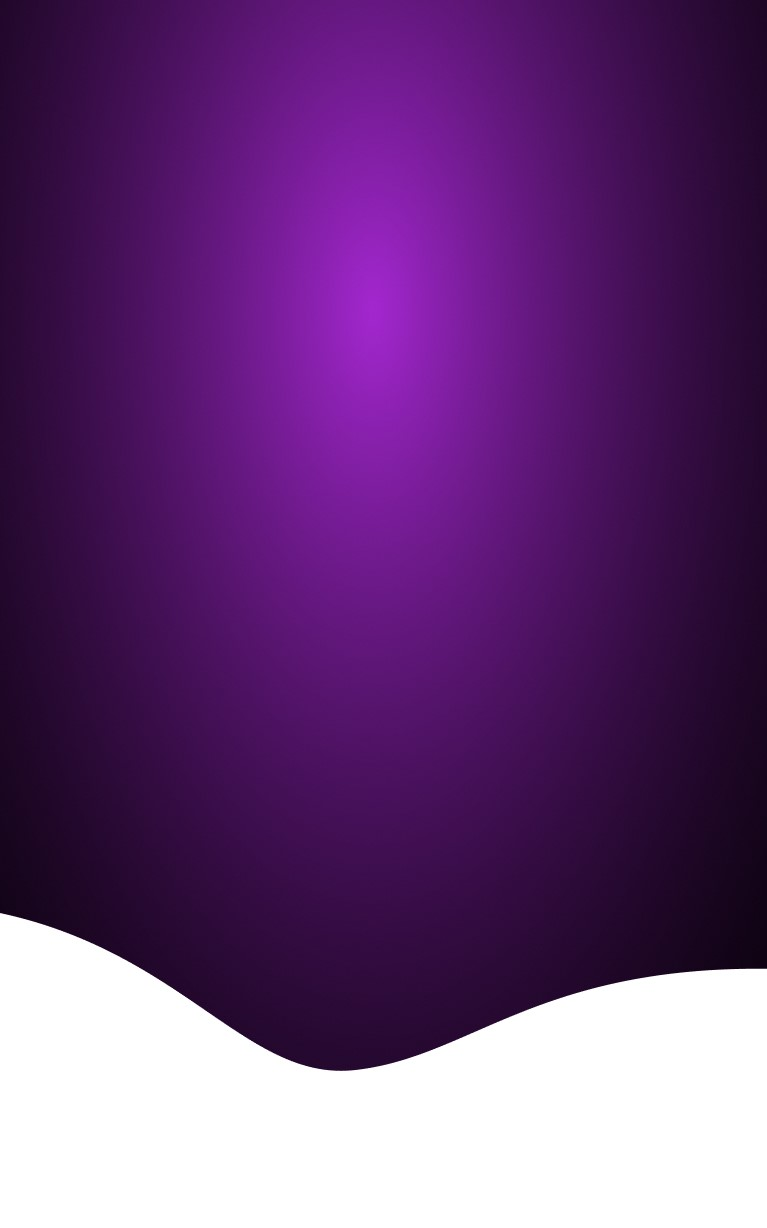
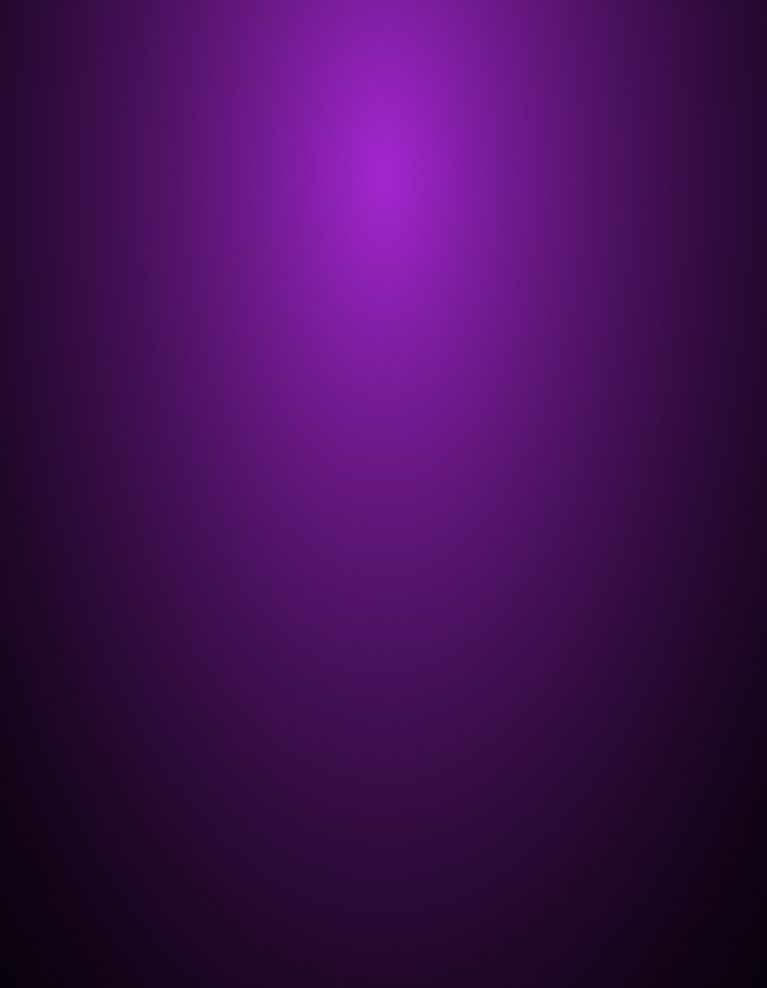
version 3 remade

Changed region(s): [[0.0, 0.7287, 1.0, 1.0], [0.3898, 0.0, 0.6597, 0.1822]]

diff --git a/lpv3/styles/style.css b/lpv3/styles/style.css
@@ -297,15 +297,6 @@ body {
   margin-bottom: -6px;
 }
 
-.header__buttons {
-  position: absolute;
-  top: -38px;
-  right: 10px;
-  display: flex;
-  justify-content: center;
-  column-gap: 36px;
-}
-
 .header__button_register {
   display: flex;
   justify-content: center;
@@ -348,6 +339,56 @@ body {
 }
 
 .header__button_freeSpins:hover {
+  transform: scale(1.06);
+}
+
+.header__buttons {
+  position: absolute;
+  bottom: -865px;
+  right: 370px;
+  display: flex;
+  justify-content: center;
+  column-gap: 36px;
+  z-index: 1;
+}
+
+.header__logIn {
+  display: flex;
+  align-items: center;
+  justify-content: center;
+  width: 124px;
+  height: 48px;
+  border: 2px solid #ff0049;
+  border-radius: 61.783px;
+  font-weight: 400;
+  font-size: 22px;
+  line-height: 125%;
+  text-align: center;
+  color: #ffffff;
+  transition: 0.2s ease all;
+}
+
+.header__logIn:hover {
+  transform: scale(1.06);
+}
+
+.header__signUp {
+  display: flex;
+  align-items: center;
+  justify-content: center;
+  width: 171px;
+  height: 48px;
+  background: #ff0049;
+  border-radius: 61.783px;
+  font-weight: 400;
+  font-size: 22px;
+  line-height: 125%;
+  text-align: center;
+  color: #ffffff;
+  transition: 0.2s ease all;
+}
+
+.header__signUp:hover {
   transform: scale(1.06);
 }
 
@@ -411,7 +452,9 @@ body {
   }
 
   .header__buttons {
-    top: -40px;
+    top: 1065px;
+    left: 39px;
+    z-index: 1;
   }
 
   .header__button_freeSpins {
@@ -475,7 +518,7 @@ body {
   }
 
   .header__buttons {
-    top: 565px;
+    top: 641px;
     right: 84px;
     z-index: 2;
     column-gap: 15px;
@@ -505,11 +548,11 @@ body {
 /** join */
 
 .join {
-  padding: 201px 0 23px;
+  padding: 282px 0 23px;
   background-image: url(../images/join-bg-desk.jpg);
   background-position: top center;
   background-repeat: no-repeat;
-  min-height: 1065px;
+  min-height: 890px;
 }
 
 .join__container {
@@ -577,7 +620,6 @@ body {
   line-height: 125%;
   text-align: center;
   color: #ffffff;
-  margin-bottom: 280px;
   transition: 0.2s ease all;
 }
 
@@ -599,11 +641,11 @@ body {
 
 @media (min-width: 768px) and (max-width: 1199px) {
   .join {
-    padding: 157px 0 23px;
+    padding: 176px 0 23px;
     background-image: url(../images/join-bg-tab.jpg);
     background-position: top center;
     background-repeat: no-repeat;
-    min-height: 911px;
+    min-height: 833px;
   }
 
   .join__container {
@@ -649,7 +691,7 @@ body {
 
   .join__button {
     margin: 0 auto 0 calc(50% - 189px);
-    margin-bottom: 194px;
+    margin-bottom: 0;
   }
 
   .join__button:hover {
@@ -665,10 +707,9 @@ body {
 
 @media (max-width: 767px) {
   .join {
-    padding: 84px 0 34px;
+    padding: 120px 0 34px;
     background-image: url(../images/join-bg-mob.jpg);
-    background-position-y: -72px;
-    min-height: 1138px;
+    min-height: 990px;
   }
 
   .join__container {
@@ -700,7 +741,7 @@ body {
   .join__button {
     width: 299px;
     height: 41px;
-    margin: 0 auto 150px calc(50% - 150px);
+    margin: 0 auto 0 calc(50% - 150px);
     font-size: 15px;
   }
 

diff --git a/lpv3/index.html b/lpv3/index.html
@@ -28,6 +28,14 @@
               <img src="images/logo.svg" alt="logo" />
             </a>
           </div>
+          <div class="header__buttons">
+            <a href="#">
+              <div class="header__logIn">Log in</div>
+            </a>
+            <a href="#">
+              <div class="header__signUp">Sign up</div>
+            </a>
+          </div>
           <h2 class="header__title"><span>Up to </span> 2,000$ Bonus</h2>
           <div class="header__ribbon desktop-only">
             <img src="images/header_ribbon_desk.png" alt="header ribbon" />
@@ -81,15 +89,15 @@
             stands between you and an enjoyable gaming experience.
           </div>
           <a href="#" class="join__button">REGISTER NOW</a>
-          <div class="join__subtitle">
+          <!-- <div class="join__subtitle">
             Join <span>Win</span>SpinBet today and feel a first-hand online
             gambling experience!
-          </div>
+          </div> -->
         </div>
       </div>
     </section>
 
-    <section class="promo">
+    <!-- <section class="promo">
       <div class="promo__title">
         Have you played<br />
         John Hunter and the<br class="mobile-only" />
@@ -722,6 +730,6 @@
 
     <script src="scripts/jquery-1.11.0.min.js"></script>
     <script src="scripts/slick.min.js"></script>
-    <script src="scripts/main.js"></script>
+    <script src="scripts/main.js"></script> -->
   </body>
 </html>

diff --git a/lpv1/styles/style.css b/lpv1/styles/style.css
@@ -334,7 +334,7 @@ body {
   justify-content: center;
   width: 171px;
   height: 48px;
-  background: #54146a;
+  background: #ff0049;
   border-radius: 61.783px;
   font-weight: 400;
   font-size: 22px;
